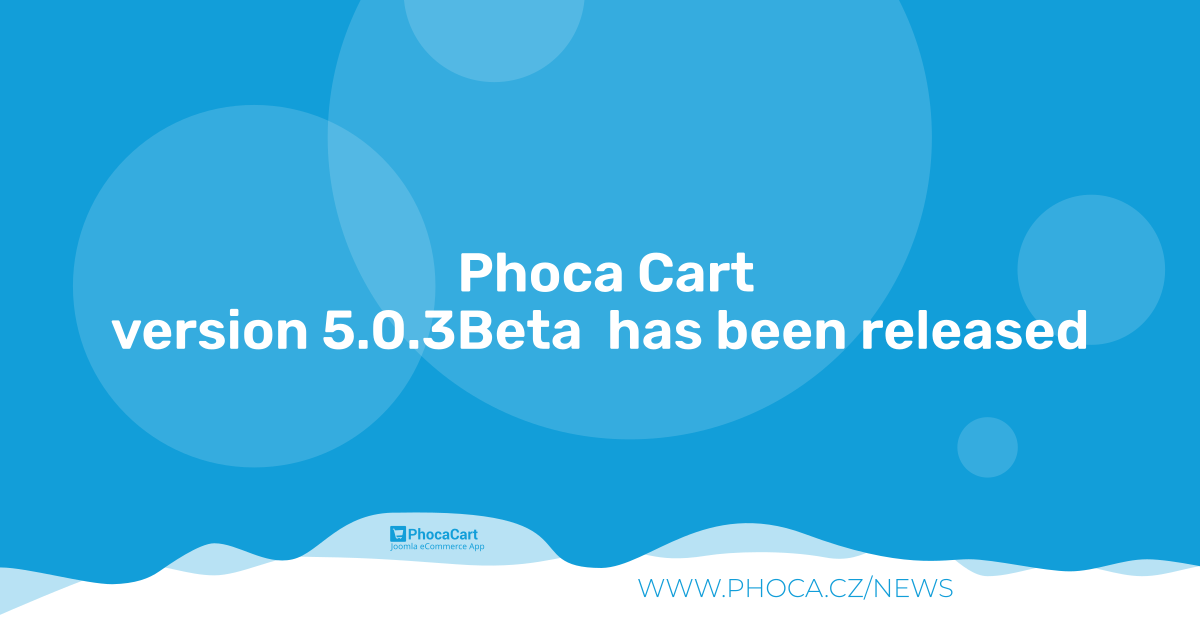
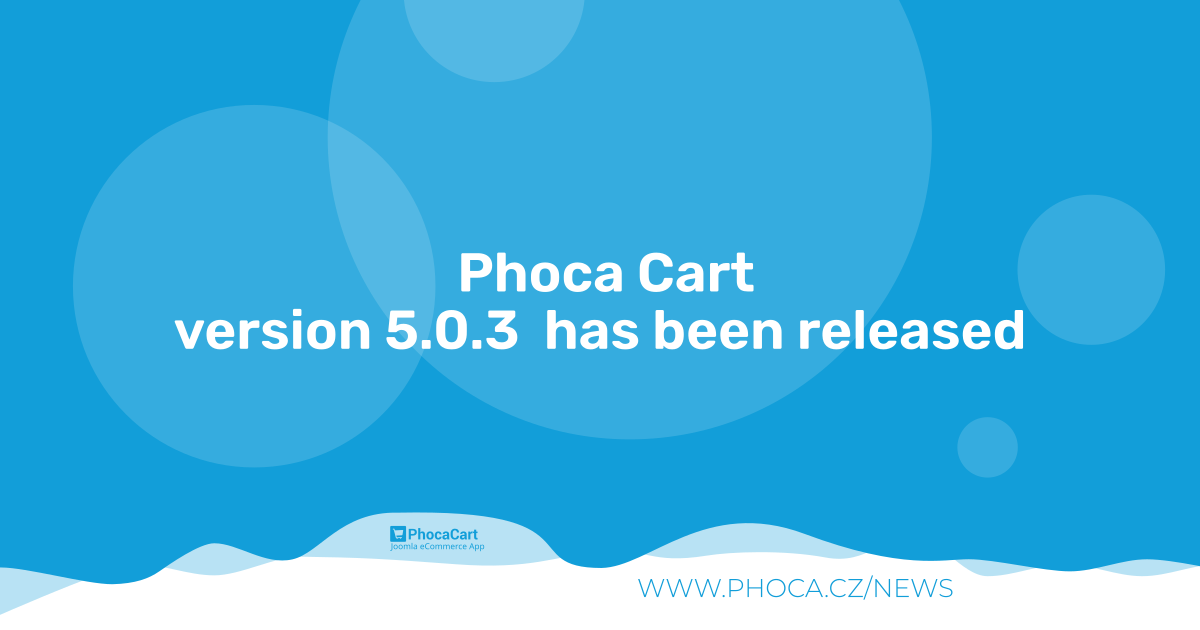
5.0.3

Changed region(s): [[0.0925, 0.4825, 0.925, 0.573]]

diff --git a/media/css/main.css b/media/css/main.css
@@ -2628,3 +2628,38 @@ form.ph-form-placeholder .ph-checkout-billing-row {
     right: 1em;
 }
 */
+
+
+/* Button alignment when button includes long text */
+.phItemCartBoxForm .ph-pull-left,
+.phItemCartBoxForm .ph-pull-right {
+    float: none;
+}
+
+.phItemCartBoxForm {
+    display: flex;
+    flex-wrap: wrap;
+    justify-content: center;
+    align-items: center;
+    row-gap: 0.25em;
+    column-gap: 0.75rem;
+}
+
+.phItemCartBoxForm .ph-cb {
+    display: none;
+}
+
+.phItemCartBoxForm .ph-pull-right,
+.phItemCartBoxForm .ph-pull-left {
+    margin-left: auto;
+    margin-right: auto;
+}
+
+ul.ph-filter-module-category-tree {
+    padding-left: 0;
+    margin-left: 1em;
+}
+
+
+
+

diff --git a/media/css/administrator/theme-dark.css b/media/css/administrator/theme-dark.css
@@ -311,4 +311,12 @@
         font-size: 12em;
         font-weight: bold;
     }
+
+    .plupload_filelist {
+        background: transparent;
+    }
+
+    .plupload_filelist li {
+        background: transparent;
+    }
 }

diff --git a/README.MD b/README.MD
@@ -132,7 +132,7 @@ Phoca Cart is e-commerce extension - powerful shopping cart for Joomla! CMS. Pho
 
 ## Version (Joomla! 5.x)
 
-5.0.3Beta
+5.0.3
 
 
 
